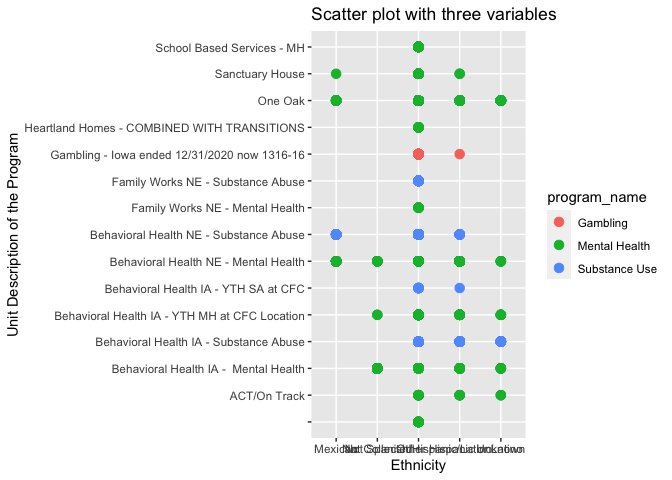
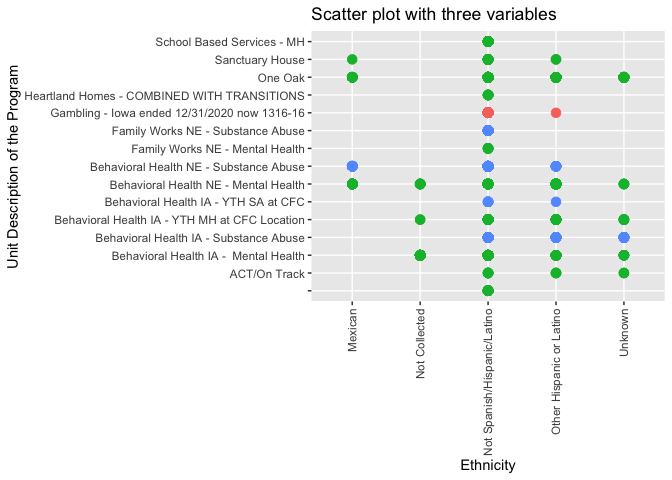
Fix Rhonda's axes

Changed region(s): [[0.0, 0.0625, 1.0, 1.0], [0.5, 0.3125, 0.5312, 0.4062], [0.5312, 0.4062, 0.5625, 0.4375]]

diff --git a/Data Cleaning Documentation/GIT_Data-Cleaning.md b/Data Cleaning Documentation/GIT_Data-Cleaning.md
@@ -600,7 +600,8 @@ Mexican, how many received services at which branch
 <!-- -->
 
     ggplot(data = HFS.Hispanic.cleaned, aes(x =ethnic_identity , y =program_unit_description , colour=program_name)) +geom_point(size = 3)+
-         labs(title = "Scatter plot with three variables", y = "Unit Description of the Program", x = "Ethnicity")
+         labs(title = "Scatter plot with three variables", y = "Unit Description of the Program", x = "Ethnicity")+ 
+      theme(axis.text.x = element_text(angle = 90, vjust = 0.5, hjust=1), legend.position = "none")
 
 ![](GIT_Data-Cleaning_files/figure-markdown_strict/unnamed-chunk-17-1.png)
 
@@ -619,11 +620,12 @@ programs.
 
 <!-- -->
 
-    ggplot(data = HFS.Hispanic.cleaned, aes(facility,ethnic_identity)) +
+    ggplot(data = HFS.Hispanic.cleaned, aes(y = ethnic_identity, x = facility)) +
      geom_line(color = "steelblue", size = 1) +
       geom_point(color = "steelblue") +
-       labs(title = "Faceted plot of two variables Ethnic Identity vs Facility", y = "facility", x = "ethnic_identity") +
-        facet_wrap(.~program_type)
+       labs(title = "Faceted plot of two variables Ethnic Identity vs Facility", y = "ethnic_identity", x = "facility") +
+        facet_wrap(.~program_type) + 
+      theme(axis.text.x = element_text(angle = 90, vjust = 0.5, hjust=1), legend.position = "none")
 
 ![](GIT_Data-Cleaning_files/figure-markdown_strict/unnamed-chunk-18-1.png)
 
